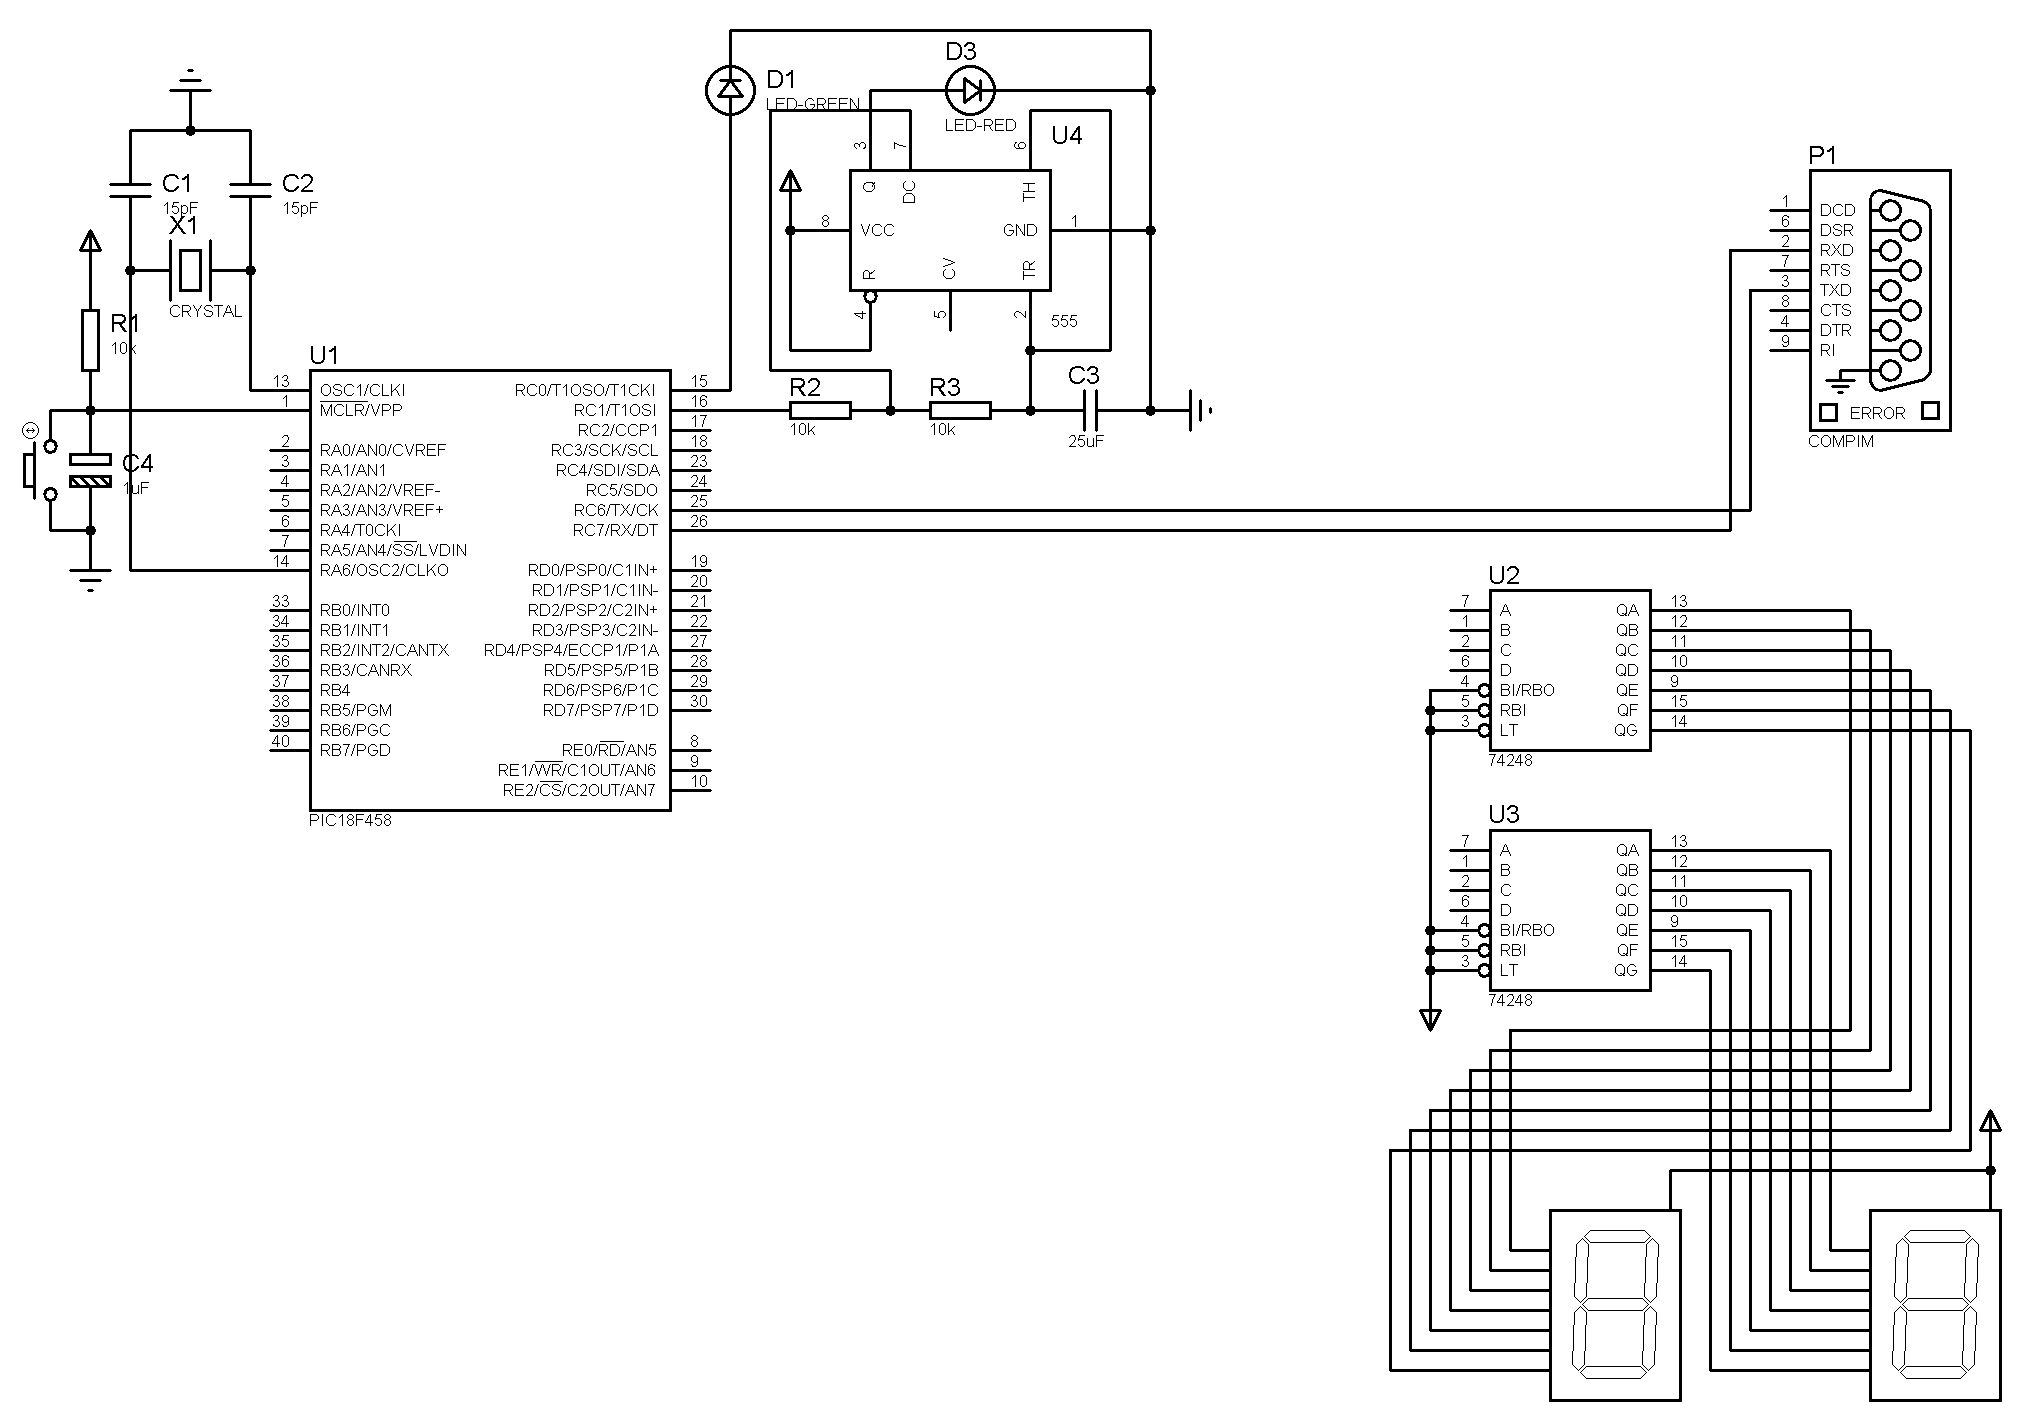
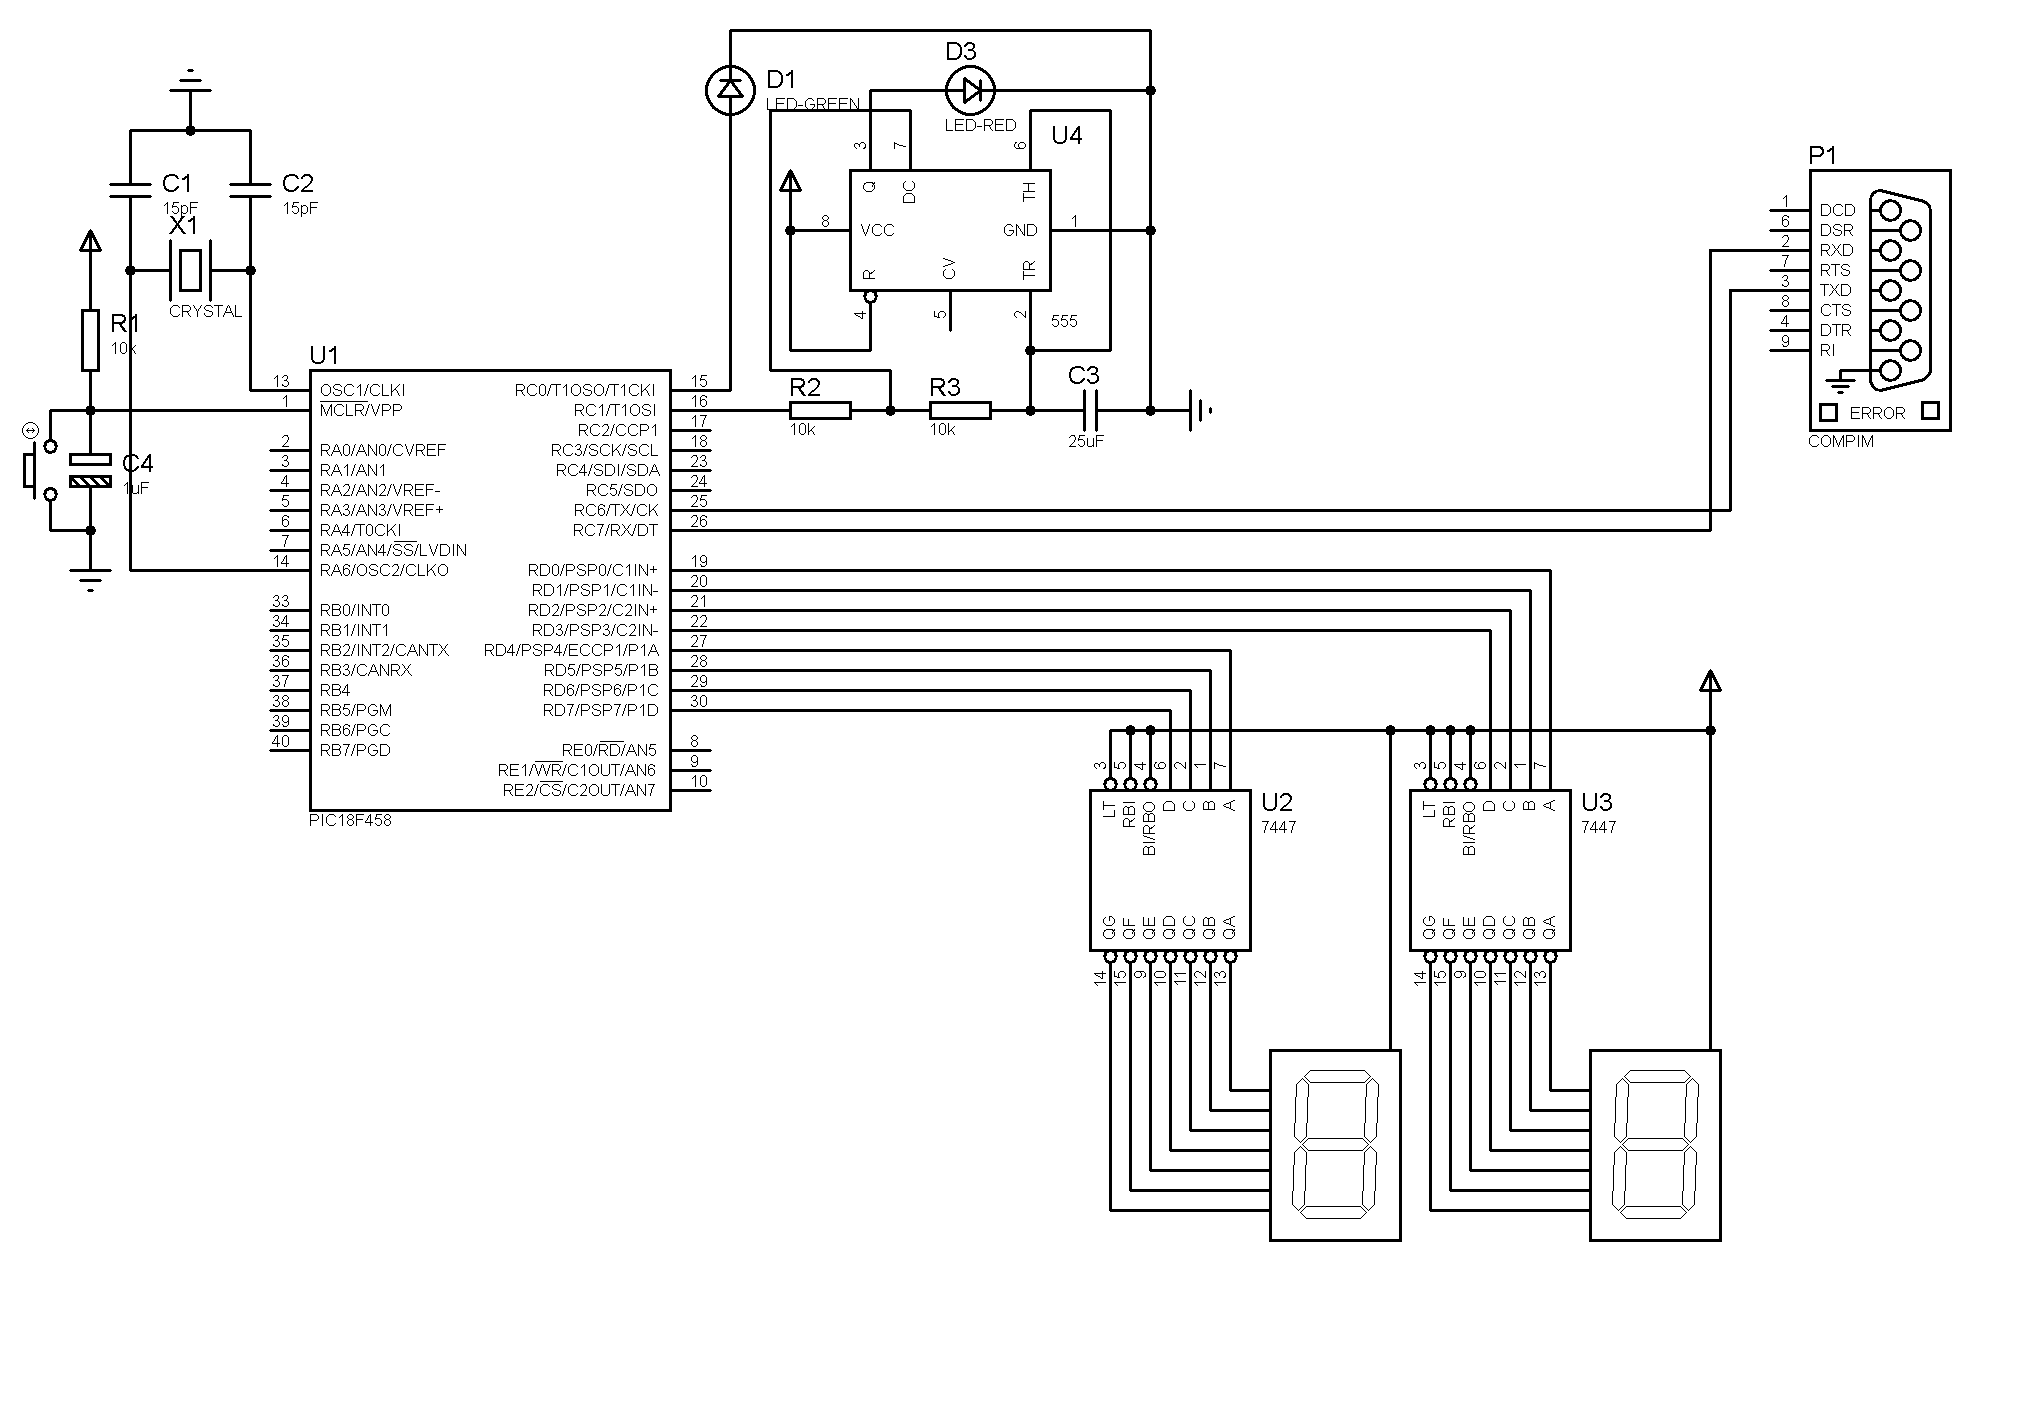
Use 7447 instead of 7448, C code to test the 7-seg display

diff --git a/main.c b/main.c
@@ -1,5 +1,15 @@
 #include <main.h>
 
+int toBCD(int binary) {
+   if (binary >= 0 && binary < 100)
+      return ((binary / 10) << 4) + binary % 10;
+   else if (binary < 0)
+      return 0;
+   else
+      return 99;
+}
+
 void main() {
    output_c(0b11);
+   output_d(toBCD(15));
 }
